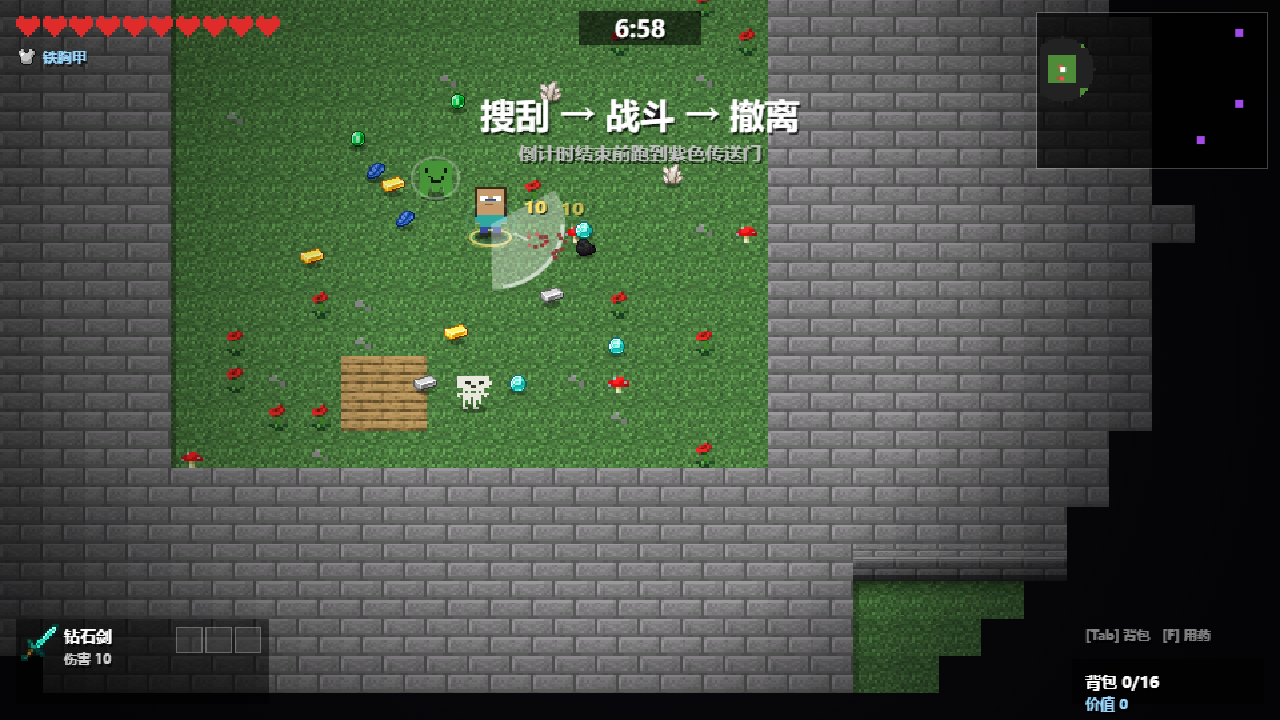
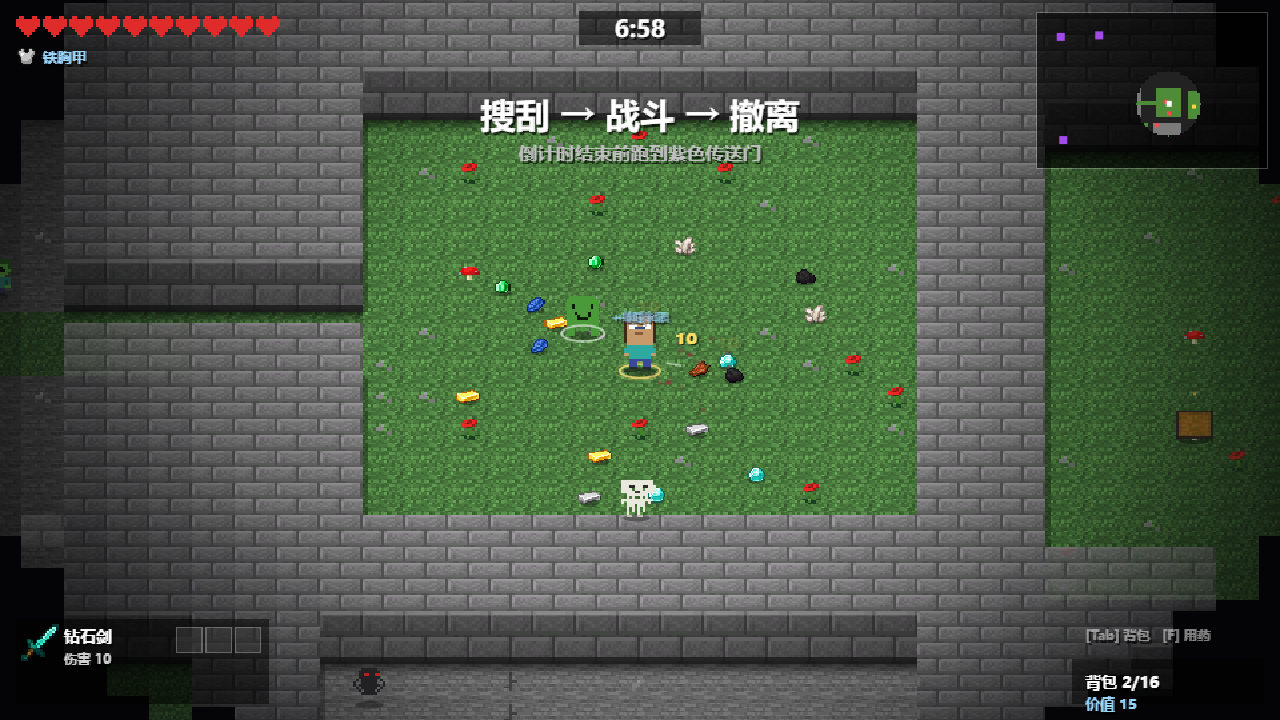
feat: 整张地图转 2.5D 斜俯视（地面压缩 + 墙块竖直正面 + 角色保持直立），出生点移到地图中心

diff --git a/js/render.js b/js/render.js
@@ -117,36 +117,34 @@
       }
     }
 
-    // ---- 2. 墙体：每格画成「顶面 + 正面」的方块，做出 2.5D 高度 ----
-    const FACE_H = 20;
-    const TOP_H = TILE - FACE_H;
-    const faceTex = P.wallFace(g.world.wallTex, FACE_H);
+    // ---- 2. 墙体：整块「顶面 + 正面」，像真的立在地面上 ----
+    const KY = E.Cam.KY;
+    const WALL_H = 40;                 // 墙面高度（屏幕像素）
+    const faceTex = P.wallFace(g.world.wallTex, WALL_H);
     for (let ty = y0; ty <= y1; ty++) {
       for (let tx = x0; tx <= x1; tx++) {
         const i = ty * g.world.w + tx;
         if (!g.world.seen[i]) continue;
         const t = g.world.tiles[i];
         if (!Wd.isSolidTile(t)) continue;
-        const sx = tx * TILE, sy = ty * TILE;
+        const sx = tx * TILE;
+        const baseY = (ty + 1) * TILE;              // 方块底边（世界坐标）
         const d = Math.hypot(tx - ptx, ty - pty);
         ctx.globalAlpha = d < 11 ? 1 : Math.max(0.45, 1 - (d - 11) * 0.09);
         const ore = g.oreMap ? g.oreMap[i] : null;
         const topTex = ore
           ? P.tile(MCX.DATA.ores[ore.type].tex)
           : (t === Wd.T.WALL ? P.wallVar(g.world.wallTex, (tx * 7 + ty * 13) % 3) : P.tile(Wd.texName(g.world, t)));
+        // 顶面：整体上抬 WALL_H，看上去是“站在地上的方块”的上表面
+        ctx.drawImage(topTex, sx, baseY - TILE - WALL_H / KY, TILE, TILE);
+        // 正面：只有南边是可走地面才画（朝镜头的一面）
         const southTile = ty + 1 < g.world.h ? g.world.tiles[i + g.world.w] : Wd.T.VOID;
         if (!Wd.isSolidTile(southTile) && southTile !== Wd.T.VOID) {
-          // 朝南对着可走区域：上面一段是顶面，下面一段是正面
-          ctx.drawImage(topTex, 0, 0, 32, 32, sx, sy, 32, TOP_H);
-          ctx.fillStyle = 'rgba(255,255,255,0.07)';
-          ctx.fillRect(sx, sy, 32, TOP_H);
-          ctx.drawImage(faceTex, 0, 0, 32, FACE_H, sx, sy + TOP_H, 32, FACE_H);
-          ctx.fillStyle = 'rgba(255,255,255,0.22)';
-          ctx.fillRect(sx, sy + TOP_H, 32, 1);
-          ctx.fillStyle = 'rgba(0,0,0,0.30)';
-          ctx.fillRect(sx, sy + TOP_H + 1, 32, 1);
-        } else {
-          ctx.drawImage(topTex, sx, sy);
+          ctx.save();
+          ctx.translate(sx, baseY);
+          ctx.scale(1, 1 / KY);                     // 抵消镜头压扁：墙面竖直
+          ctx.drawImage(faceTex, 0, -WALL_H, TILE, WALL_H);
+          ctx.restore();
         }
         ctx.globalAlpha = 1;
       }
@@ -233,17 +231,19 @@
 
   function drawEnemies(ctx, g) {
     const p = g.player;
+    const KY = E.Cam.KY;
     const list = g.enemies.slice().sort((a, b) => a.y - b.y);
     for (const e of list) {
       const img = P.mob(e.def.sprite);
       const sc = e.small ? 0.62 : 1;
       const w = img.width * sc, h = img.height * sc;
       const footY = e.y + e.r * 0.65;
-      const topY = footY - h;
+      const topWorld = footY - h / KY;
       shadowEllipse(ctx, e.x, footY, Math.max(8, e.r * 0.85), e.r * 0.32);
       const flip = (p.x < e.x) ? -1 : 1;
       ctx.save();
       ctx.translate(e.x, footY);
+      ctx.scale(1, 1 / KY);          // 抵消镜头压扁，让角色立起来
       if (flip < 0) ctx.scale(-1, 1);
       ctx.drawImage(img, -w / 2, -h, w, h);
       // 受击白闪
@@ -259,16 +259,18 @@
       if (e.hp < e.maxHp && !e.def.boss) {
         const bw = 28, bh = 3;
         ctx.fillStyle = 'rgba(0,0,0,0.7)';
-        ctx.fillRect(e.x - bw / 2, topY - 6, bw, bh);
+        ctx.fillRect(e.x - bw / 2, topWorld - 4, bw, bh);
         ctx.fillStyle = e.hp / e.maxHp > 0.5 ? '#5cf06a' : e.hp / e.maxHp > 0.25 ? '#ffd24a' : '#ff5a4a';
-        ctx.fillRect(e.x - bw / 2, topY - 6, bw * (e.hp / e.maxHp), bh);
+        ctx.fillRect(e.x - bw / 2, topWorld - 4, bw * (e.hp / e.maxHp), bh);
       }
       // 苦力怕点燃
       if (e.fuse > 0) {
         ctx.globalAlpha = 0.4 + 0.4 * Math.sin(g.time * 22);
         ctx.strokeStyle = '#fff';
         ctx.lineWidth = 2;
-        ctx.beginPath(); ctx.arc(e.x, footY - h * 0.5, Math.max(w, h) * 0.55, 0, Math.PI * 2); ctx.stroke();
+        ctx.beginPath();
+        ctx.ellipse(e.x, footY - 2, Math.max(w, h) * 0.5, Math.max(w, h) * 0.25, 0, 0, Math.PI * 2);
+        ctx.stroke();
         ctx.globalAlpha = 1;
       }
     }
@@ -297,7 +299,13 @@
     if (p.dashT > 0) {
       ctx.globalAlpha = 0.28;
       for (let i = 1; i <= 3; i++) {
-        ctx.drawImage(img, p.x - w / 2 - Math.cos(p.dashDir) * i * 12, footY - h - Math.sin(p.dashDir) * i * 12, w, h);
+        const tx = p.x - Math.cos(p.dashDir) * i * 12;
+        const ty = footY - Math.sin(p.dashDir) * i * 12;
+        ctx.save();
+        ctx.translate(tx, ty);
+        ctx.scale(1, 1 / E.Cam.KY);
+        ctx.drawImage(img, -w / 2, -h, w, h);
+        ctx.restore();
       }
       ctx.globalAlpha = 1;
     }
@@ -313,6 +321,7 @@
     ctx.globalAlpha = 1;
     ctx.save();
     ctx.translate(p.x, footY);
+    ctx.scale(1, 1 / E.Cam.KY);      // 抵消镜头压扁
     if (ax < 0) ctx.scale(-1, 1);
     ctx.drawImage(img, -w / 2, -h, w, h);
     ctx.restore();

diff --git a/js/engine.js b/js/engine.js
@@ -164,7 +164,7 @@
   const Cam = E.Cam = {
     x: 0, y: 0, shakeT: 0, shakeMag: 0, ox: 0, oy: 0,
     // 纵向压缩比：1 = 纯俯视；0.8 ≈ 斜俯视（能看到墙的正面、角色有立体感）
-    KY: 0.88,
+    KY: 0.75,
     setPitch(k) { this.KY = E.clamp(k, 0.55, 1); },
     follow(tx, ty, dt, world) {
       this.x = E.lerp(this.x, tx, Math.min(1, dt * 9));
@@ -188,7 +188,7 @@
     toWorld(sx, sy) {
       return {
         x: sx - E.W / 2 + this.x - this.ox,
-        y: (sy - E.H / 2 + this.y - this.oy) / this.KY,
+        y: (sy - E.H / 2 - this.oy) / this.KY + this.y,
       };
     },
     toScreen(wx, wy) {
@@ -198,7 +198,8 @@
       };
     },
     apply(ctx) {
-      ctx.translate(E.W / 2 - this.x + this.ox, E.H / 2 - this.y + this.oy);
+      // 注意：先 translate 再 scale，平移量要按压缩后的坐标算，否则镜头会偏
+      ctx.translate(E.W / 2 - this.x + this.ox, E.H / 2 - this.y * this.KY + this.oy);
       ctx.scale(1, this.KY);
     },
   };

diff --git a/js/world.js b/js/world.js
@@ -53,7 +53,7 @@
     // ---- 1. 选单元格 ----
     const cells = [];
     for (let j = 0; j < GH; j++) for (let i = 0; i < GW; i++) cells.push({ i, j });
-    const spawnCell = { i: 0, j: 1 };
+    const spawnCell = { i: GW >> 1, j: GH >> 1 };
     const others = cells.filter((c) => !(c.i === spawnCell.i && c.j === spawnCell.j));
     E.shuffle(others);
     const want = E.clamp(map.rooms, 6, cells.length);

diff --git a/README.md b/README.md
@@ -73,7 +73,7 @@
 
 **角色是 2D 像素小人**：身体是手绘的 Q 版像素格（`js/pixel.js` 的 `CHIBI_BODY`），头直接用官方 16×16 头像贴上去——所以既保留了 Wiki 的原版辨识度，又不是 3D 渲染图那种"塑料模型"感。
 
-**视角是 2.5D 斜俯视**：地面按 `KY = 0.88` 轻微压缩，每格墙画成「顶面 + 正面」的方块，墙体、木箱、角色都有高度感；想要纯俯视把 `js/engine.js` 里 `Cam.KY` 改成 `1` 即可。
+**视角是 2.5D 斜俯视**：整张地图按 `KY = 0.75` 纵向压缩，墙格画成「上表面 + 竖直正面」的立体方块（正面 40px 高），角色站在地面上、按真实像素高度绘制（凌驾于压缩比之上），所以地面是斜的、人是立的。想调：`js/engine.js` 里 `Cam.KY`（`0.6` 更斜、`1` 纯俯视）。
 
 - 缺图 / 断网时会**自动回退**到 `js/pixel.js` 里的程序化像素图，不会白屏。
 - 想换别的皮肤包：把同名 PNG 丢进 `assets/tex/`（16×16 物品与方块、16×16 生物头像）即可。
